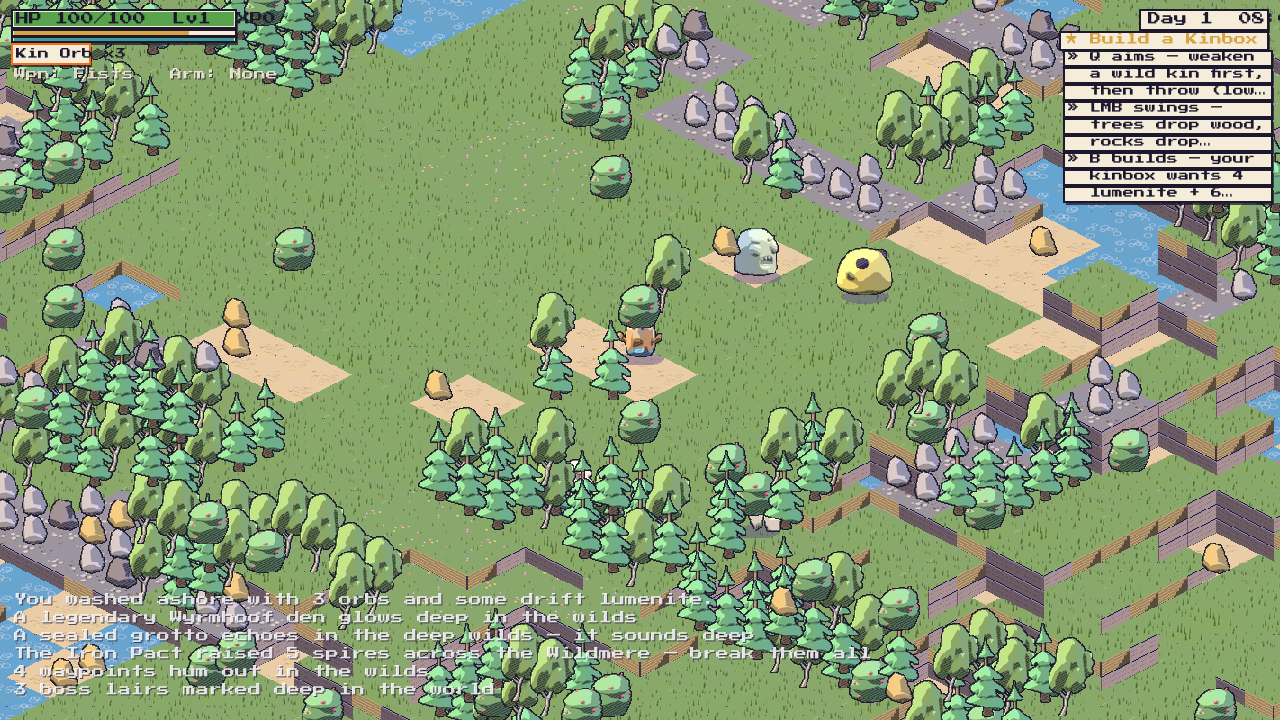
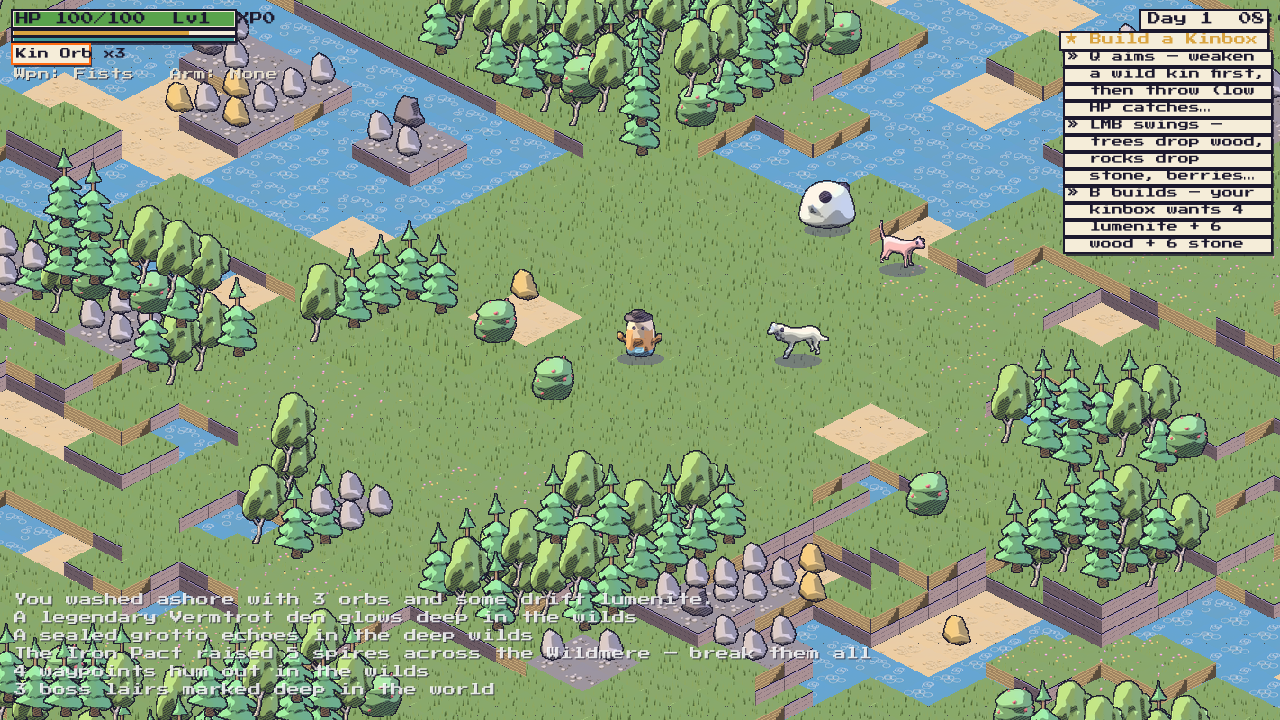
audit-76 fixes: CJK-aware wrap + honest doc claims
Cold review caught the word-wrap's blind side: spaceless CJK tokens
(zh hints) can't wrap on word boundaries — they overflowed the column
and bled off the right screen edge, and the last-line word-clip could
collapse a spaceless row to a bare ellipsis. _wrap_font now pre-splits
oversized tokens at glyph boundaries (measured with indent budget) and
the last-line clip falls back to _clip_px when no word boundary exists.

- hints bumped to 4 rows: the kinbox recipe now renders in full
- smoke pins: CJK column-fit + content-preservation
- docs reconciled: 4 rows, 39MB zip vs 118MB embedded exe
- noted (pre-existing): hint column can overlap party rows when a
  party exists alongside long hints — bounded, deferred to layout pass

smoke 1059/0/0skip

Generated with [Devin](https://devin.ai)

diff --git a/docs/reviews/s123-export-verify.md b/docs/reviews/s123-export-verify.md
@@ -14,14 +14,14 @@ hint card had never been reviewed as rendered output.
 ## Fixed
 
 - `hud.gd`: fallback chain built via `load()` (walks the .import remap) instead of `load_dynamic_font`. Comment corrected — sidecars ARE the export path.
-- `_wrap_font(txt, w, size, max_lines)`: greedy word-wrap for the hint column — word boundaries, indented continuations, word-clip + `…` on real overflow. Hints get 3 rows (carries the kinbox recipe); mission row keeps its single-line contract.
+- `_wrap_font(txt, w, size, max_lines)`: greedy word-wrap for the hint column — word boundaries, indented continuations, word-clip + `…` on real overflow. Hints get 4 rows (carries the whole kinbox recipe); mission row keeps its single-line contract. audit-76 follow-up: spaceless CJK tokens pre-split at glyph boundaries (zh hints no longer bleed off the screen edge), and the last-line clip falls back to glyph-clip when no word boundary exists past the indent.
 - `tools/shot_firstmin.gd`: windowed capture of title/spawn/hint/guide — the first-session evidence loop.
 
 ## Verification
 
 - `tools/package.sh all` → `kinbound-1.0.0-{windows,web,debug.apk}` + SHA256SUMS, zero export warnings
 - web `index.pck` booted via `--main-pack --quit-after 600`: **zero errors** (was 2 font errors)
-- Windows artifact: 118MB embedded-pck exe (standard release shape; same export run)
+- Windows artifact: 39MB zip containing the 118MB embedded-pck exe (standard release shape; same export run)
 - smoke **1055/0/0skip** — new pins: 3 font import-remap resolves, wrap column-fit/indent/ellipsis
 - Evidence: `s123-{title,spawn,hint,guide}.png` — wrapped hint card renders continuations indented + ellipsized
 

diff --git a/ROADMAP.md b/ROADMAP.md
@@ -1998,4 +1998,4 @@ Accord 封印后只剩被动购买沉淀——原始诉求里"浅薄终局目的
 
 ## S123 — 1.0.0 导出实证 + 首会话捕获
 
-`package.sh all` 首产 1.0.0 三平台工件（win 39M/web 12M/apk 30M+SHA256）。**web pck 实启动抓到真缺陷**：`.ttf` 经 font importer 后 pck 内只剩 fontdata，`load_dynamic_font` 读原始路径全灭→zh 字形在导出端 tofu；zh.csv 靠 `keep` importer 幸存。修：fallback 链走 `load()` 重映射 + 3 枚 `ResourceLoader.exists` 钉。首会话截图另抓提示卡逐字硬切（"swings — fre"）——改 `_wrap_font` 词界换行+缩进续行+词界省略，3 行容量装下 kinbox 配方。smoke **1055/0/0skip**。证据 `s123-{title,spawn,hint,guide}.png`。审档 `s123-export-verify.md`。
+`package.sh all` 首产 1.0.0 三平台工件（win 39M（内嵌 118MB exe）/web 12M/apk 30M+SHA256）。**web pck 实启动抓到真缺陷**：`.ttf` 经 font importer 后 pck 内只剩 fontdata，`load_dynamic_font` 读原始路径全灭→zh 字形在导出端 tofu；zh.csv 靠 `keep` importer 幸存。修：fallback 链走 `load()` 重映射 + 3 枚 `ResourceLoader.exists` 钉。首会话截图另抓提示卡逐字硬切（"swings — fre"）——改 `_wrap_font` 词界换行+缩进续行+词界省略，4 行容量装下 kinbox 配方。smoke **1055/0/0skip**。证据 `s123-{title,spawn,hint,guide}.png`。审档 `s123-export-verify.md`。
